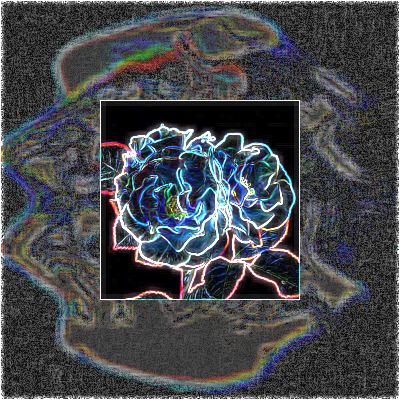
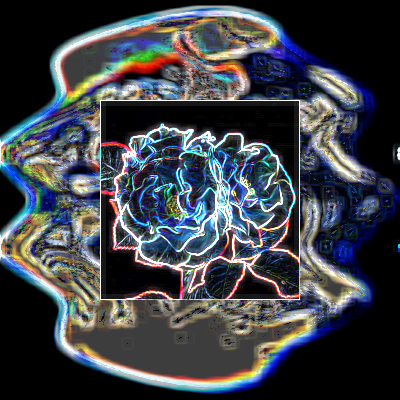
art updates

diff --git a/src/pixmap_art.cpp b/src/pixmap_art.cpp
@@ -37,7 +37,7 @@ int main(int argc, char** argv)
    // pebbles.load("../images/pebbles.png");
    
    // Image roseSmall = rose.resize(200, 200);
-   // Image art1 = earth.deepFried().colorJitter(100).distort("horizontal").painterly();
+   // Image art1 = earth.deepFried().distort("horizontal").painterly();
    // art1.replace(roseSmall.sobel().sharpen().glow(), (earth.width() - roseSmall.width()) / 2, (earth.height() - roseSmall.height()) / 2);
    // art1.save("../art/art-1.png");
 
@@ -53,7 +53,7 @@ int main(int argc, char** argv)
    // Image art5 = cat.sharpen().sobel().glow();
    // art5.save("../art/art-5.png");
 
-   // Image art6 = springPink.gammaCorrect(0.8).swirl().gradient("vertical", {255, 255, 255});
+   // Image art6 = springPink.swirl().gradient("vertical", {255, 255, 255}).painterly().brighten(100);
    // art6.save("../art/art-6.png");
 
    // Image art7 = lake.painterly().sharpen().brighten(100);
